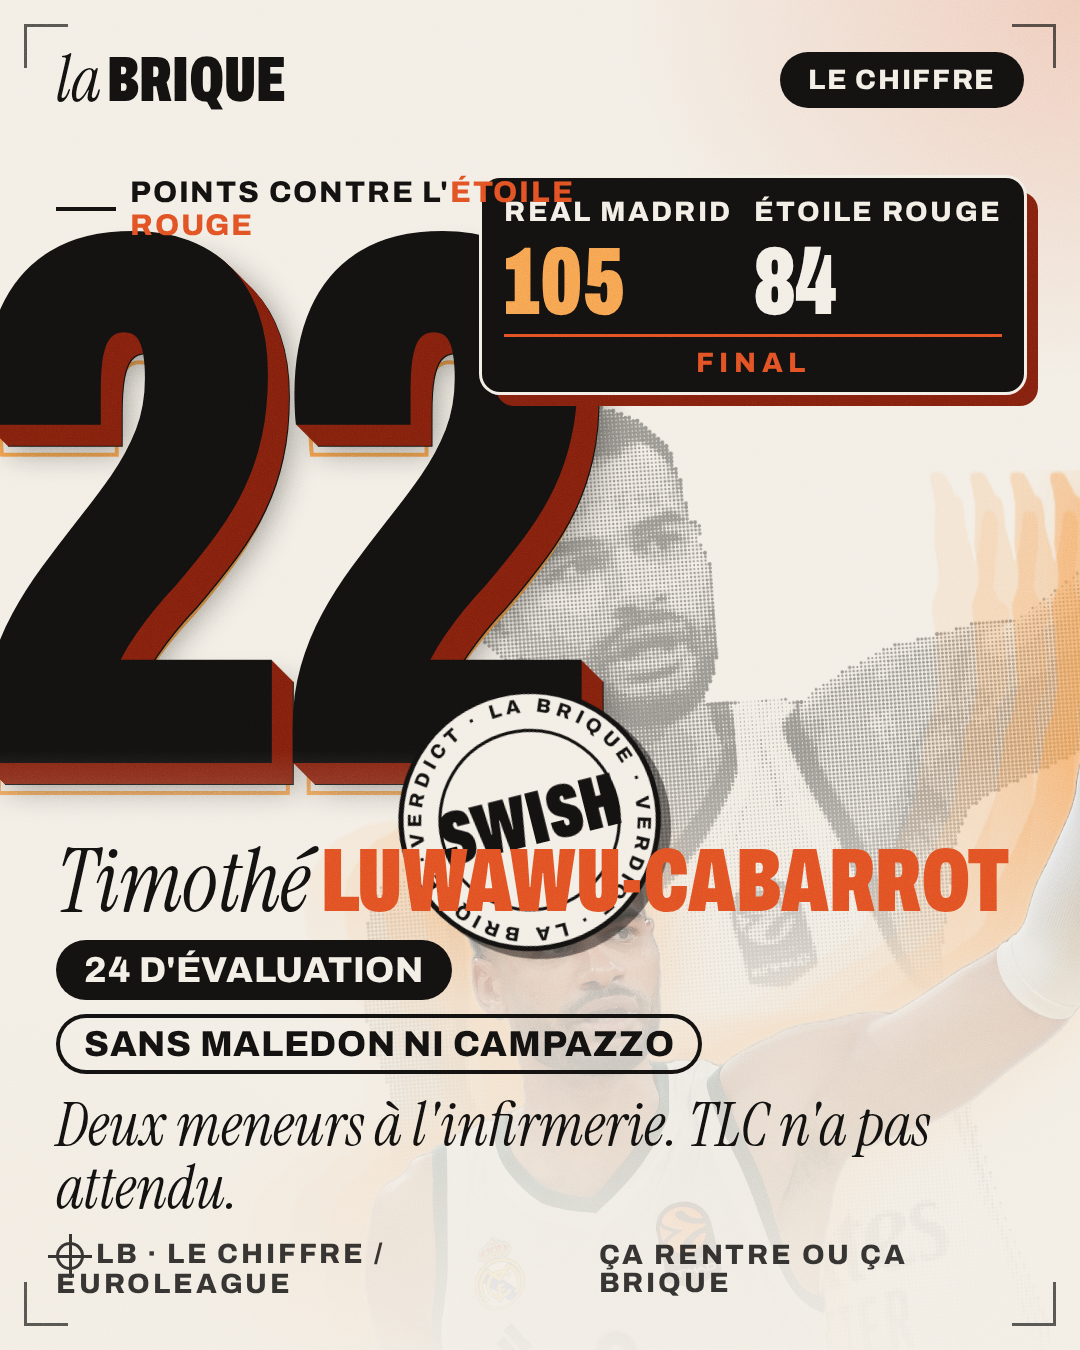
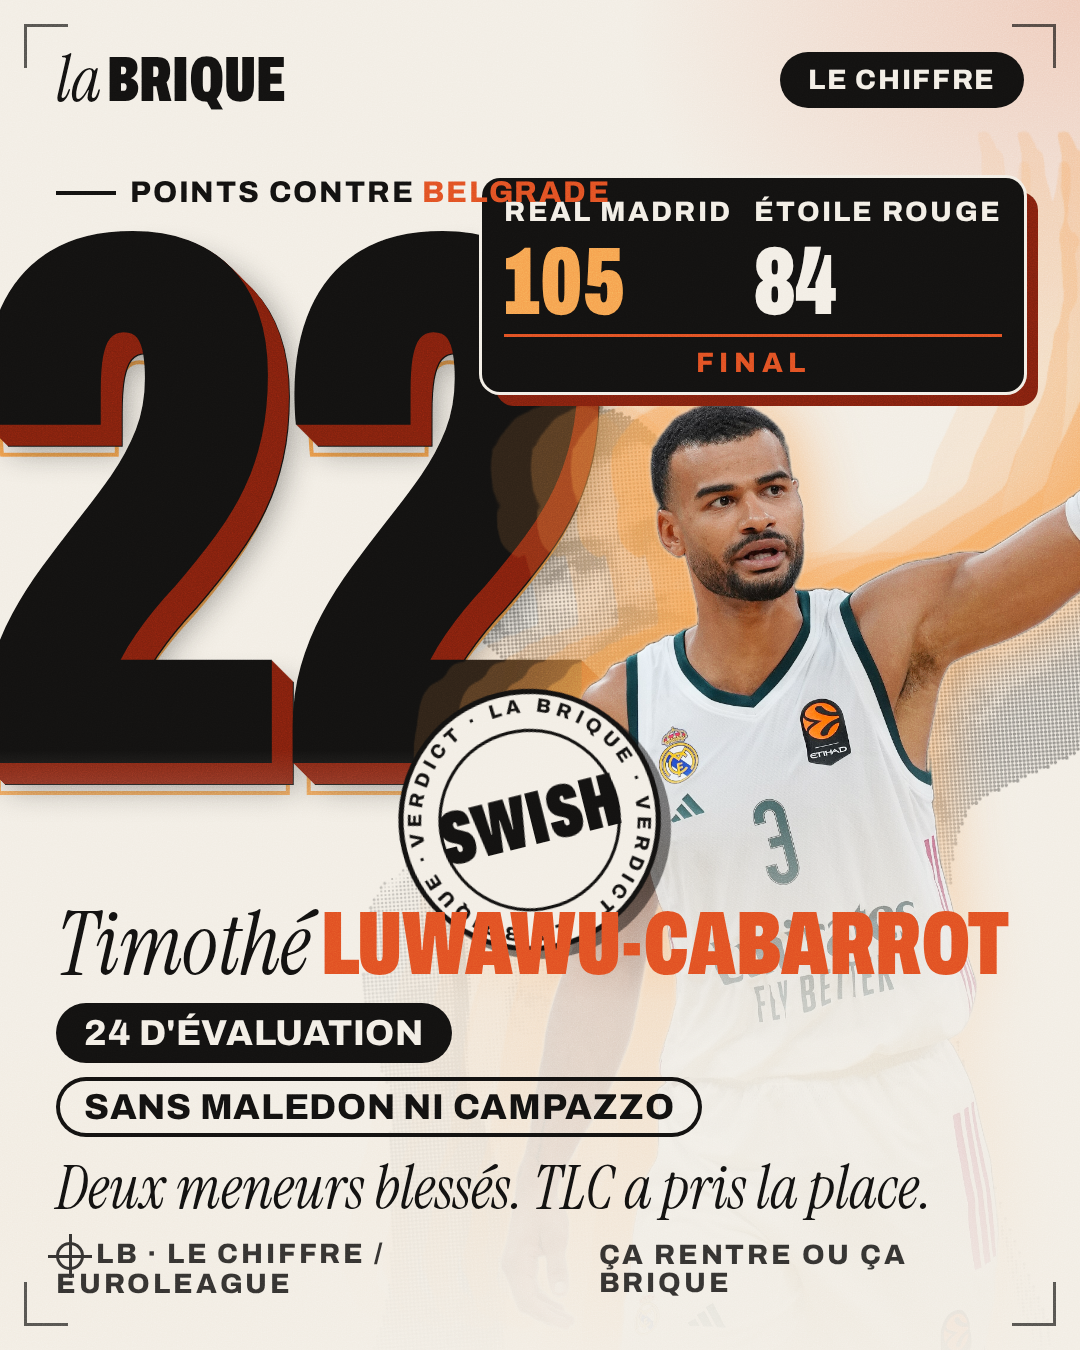
Production : a_produire/2026-11-14-2-tlc-22.json

diff --git a/posts/2026-11-14-2-tlc-22.html b/posts/2026-11-14-2-tlc-22.html
@@ -224,5 +224,5 @@ body{margin:0;background:#000}</style>
 </head><body><div id="root"></div>
 <script>
 var L = window.LaBrique;
-ReactDOM.createRoot(document.getElementById('root')).render(React.createElement(L["PostChiffre"], {"montage": "lumiere", "chiffre": "22", "verdict": "SWISH", "photo": "file:///home/runner/work/labrique-media/labrique-media/banque/photos/timoth-luwawu-cabarrot-3-real-madrid-baloncesto-euroleague-20260929-1-jpg/detoure-post.png", "fantome": "file:///home/runner/work/labrique-media/labrique-media/produit/travail/2026-11-14-2-tlc-22/detoure-post_fantome.png", "score": [{"nom": "Real Madrid", "score": "105", "gagnant": true}, {"nom": "Étoile Rouge", "score": "84"}], "surtitre": "Points contre l'*Étoile Rouge*", "prenom": "Timothé", "nom": "Luwawu-Cabarrot", "pastilles": ["24 d'évaluation", "Sans Maledon ni Campazzo"], "punchline": "Deux meneurs à l'infirmerie. TLC n'a pas attendu.", "meta": "LB · LE CHIFFRE / EUROLEAGUE", "format": "LE CHIFFRE", "alt": "Timothé Luwawu-Cabarrot en maillot du Real Madrid, chiffre 22 géant"}));
+ReactDOM.createRoot(document.getElementById('root')).render(React.createElement(L["PostChiffre"], {"montage": "lumiere", "chiffre": "22", "verdict": "SWISH", "photo": "file:///home/runner/work/labrique-media/labrique-media/banque/photos/timoth-luwawu-cabarrot-3-real-madrid-baloncesto-euroleague-20260929-1-jpg/detoure-post.png", "fantome": "file:///home/runner/work/labrique-media/labrique-media/produit/travail/2026-11-14-2-tlc-22/detoure-post_fantome.png", "score": [{"nom": "Real Madrid", "score": "105", "gagnant": true}, {"nom": "Étoile Rouge", "score": "84"}], "surtitre": "Points contre *Belgrade*", "prenom": "Timothé", "nom": "Luwawu-Cabarrot", "pastilles": ["24 d'évaluation", "Sans Maledon ni Campazzo"], "punchline": "Deux meneurs blessés. TLC a pris la place.", "meta": "LB · LE CHIFFRE / EUROLEAGUE", "format": "LE CHIFFRE", "alt": "Timothé Luwawu-Cabarrot en maillot du Real Madrid, chiffre 22 géant", "cadre": {"x": 500, "y": 130, "l": 700}}));
 </script></body></html>
